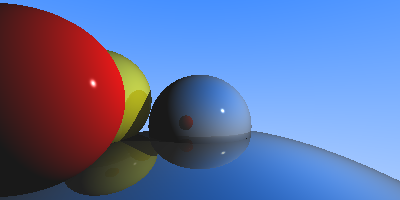
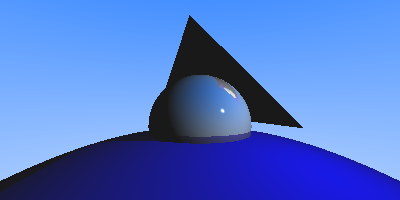
Added support for drawing triangles and translating them.

diff --git a/classes.py b/classes.py
@@ -46,7 +46,7 @@ class Renderer():
             return helpers.color(ray)
 
         # check for hits and get hits with lowest ray parameter
-        hit_result = ray.get_intersection(self.scene.scene_objects)
+        hit_result = self.get_intersection(self.scene.scene_objects, ray)
 
         # if there was a hit draw it, else draw background
         if hit_result:
@@ -65,7 +65,7 @@ class Renderer():
             # hard shadows
             if self.hard_shadows:
                 if self.get_hard_shadow(new_ray_origin, light):
-                    col /= 5
+                    col *= 0.2
             
             # lambert shading
             diffuse = 0
@@ -101,7 +101,7 @@ class Renderer():
     def get_hard_shadow(self, shadow_origin, light):
         shadow_direction = (light.position - shadow_origin).get_unit()
         shadow_ray = Ray(shadow_origin, shadow_direction)
-        shadow_result = shadow_ray.get_intersection(self.scene.scene_objects, any_hit=True)
+        shadow_result = self.get_intersection(self.scene.scene_objects, shadow_ray, any_hit=True)
 
         if shadow_result:
             return Vec3(0,0,0)
@@ -113,6 +113,27 @@ class Renderer():
 
     def get_lambert_shading(self, normal, light_ray, albedo):
         return albedo * max(0, normal.dot(light_ray.get_unit()))
+
+    def get_intersection(self, scene_objects, ray, any_hit=False):
+        # find the hit object with the smallest parameter
+        min_t = np.inf
+        min_object = None
+        for scene_object in scene_objects:
+            t = scene_object.get_hit(ray)
+
+            # there is a hit and its the new closest hit
+            if t and t < min_t:
+                min_t = t
+                min_object = scene_object
+
+                # stop early when any object is hit
+                if any_hit:
+                    break
+        
+        if min_object:
+            return min_t, min_object
+        else:
+            return None
 
 
 class Camera():
@@ -133,59 +154,6 @@ class Ray():
     
     def get_point(self, t):
         return self.origin + self.direction * t
-
-    def get_intersection(self, scene_objects, any_hit=False):
-        # find the hit object with the smallest parameter
-        min_t = np.inf
-        min_object = None
-        for scene_object in scene_objects:
-            t = self.hit_sphere(scene_object)
-
-            # there is a hit and its the new closest hit
-            if t and t < min_t:
-                min_t = t
-                min_object = scene_object
-
-                # stop early when any object is hit
-                if any_hit:
-                    break
-        
-        if min_object:
-            return min_t, min_object
-        else:
-            return None
-
-    def hit_sphere(self, sphere, t_min=0, t_max=50):
-        # notes:
-        # a = ray.direction dot ray.direction, since directions are unit vectors
-        # a is always 1
-
-        oc = self.origin - sphere.center
-        a = 1
-        b = 2 * oc.dot(self.direction)
-        c = oc.dot(oc) - sphere.radius * sphere.radius
-        discriminant = b * b - 4 * a * c
-
-        if discriminant > 0:
-            sqrt_discriminant = math.sqrt(discriminant)
-
-            t0 = (-b - sqrt_discriminant) / 2
-            t1 = (-b + sqrt_discriminant) / 2
-            
-            # make sure t0 is the lower t
-            t0, t1 = min(t0, t1), max(t0, t1)
-
-            # don't draw stuff behind the origin
-            if t1 >= 0:
-                if t0 < 0:
-                    # origin is within the sphere
-                    return t1 if t1 > t_min or t1 < t_max else None
-                else:
-                    # either single hit or hit with lowest t
-                    return t0 if t0 > t_min or t0 < t_max else None
-
-        # no hit
-        return None
 
     def __str__(self):
         return f"o: {self.origin}, d: {self.direction}"
@@ -227,6 +195,11 @@ class Vec3():
 
         return Vec3(x,y,z)
 
+    def crossproduct(self, other):
+        x = self.y * other.z - self.z * other.y
+        y = self.z * other.x - self.x  * other.z
+        z = self.x * other.y - self.y * other.x
+        return Vec3(x,y,z)
 
     def __add__(self, other):
         return Vec3(self.x + other.x, self.y + other.y, self.z + other.z)
@@ -270,8 +243,127 @@ class Sphere():
         normal = (point - self.center).get_unit()
         return normal
 
+    def get_hit(self, ray, t_min=0, t_max=50):
+        # notes:
+        # a = ray.direction dot ray.direction, since directions are unit vectors
+        # a is always 1
+
+        oc = ray.origin - self.center
+        a = 1
+        b = 2 * oc.dot(ray.direction)
+        c = oc.dot(oc) - self.radius * self.radius
+        discriminant = b * b - 4 * a * c
+
+        if discriminant > 0:
+            sqrt_discriminant = math.sqrt(discriminant)
+
+            t0 = (-b - sqrt_discriminant) / 2
+            t1 = (-b + sqrt_discriminant) / 2
+            
+            # make sure t0 is the lower t
+            t0, t1 = min(t0, t1), max(t0, t1)
+
+            # don't draw stuff behind the origin
+            if t1 >= 0:
+                if t0 < 0:
+                    # origin is within the sphere
+                    return t1 if t1 > t_min or t1 < t_max else None
+                else:
+                    # either single hit or hit with lowest t
+                    return t0 if t0 > t_min or t0 < t_max else None
+
+        # no hit
+        return None
+
     def __str__(self):
         return f"sphere with color: {self.color_vector.get_rgb()}"
+
+class Triangle():
+    def __init__(self, v0, v1, v2, color_vector=Vec3(1,0,0), mat=Material()):
+        self.v0 = v0
+        self.v1 = v1
+        self.v2 = v2
+        self.color_vector = color_vector
+        self.mat = mat
+        self.normal = self.calculate_normal()
+
+    def calculate_normal(self):
+        a = self.v1 - self.v0
+        b = self.v2 - self.v0
+        N = a.crossproduct(b)
+        return N
+
+    def get_normal(self, _):
+        return self.normal
+
+    def get_hit(self, ray):
+        # source: https://www.scratchapixel.com/lessons/3d-basic-rendering/ray-tracing-rendering-a-triangle/ray-triangle-intersection-geometric-solution
+        ### get normal ###
+        N = self.normal
+
+        ### check intersection with plane ###
+        NdotDir = N.dot(ray.direction)
+
+        if abs(NdotDir) < 0.001:
+            # plane is parallel to ray, not intersection
+            return None
+
+        D = N.dot(self.v0)
+        t = (N.dot(ray.origin) + D) / NdotDir
+        
+        if t < 0:
+            # ray is behind camera
+            return None
+
+        P = ray.origin + ray.direction * t
+
+        ### check if p is in triangle using inside out test ###
+        # edge 0
+        edge0 = self.v1 - self.v0
+        C = edge0.crossproduct(P - self.v0)
+        if N.dot(C) < 0:
+            # P is on the right side of the edge, so outside of the triangle
+            return None
+
+        # edge 1
+        edge1 = self.v2 - self.v1
+        C = edge1.crossproduct(P - self.v1)
+        if N.dot(C) < 0:
+            # P is on the right side of the edge, so outside of the triangle
+            return None
+
+        # edge 2
+        edge2 = self.v0 - self.v2
+        C = edge2.crossproduct(P - self.v2)
+        if N.dot(C) < 0:
+            # P is on the right side of the edge, so outside of the triangle
+            return None
+
+        return t
+    
+    def translate_x(self, dist):
+        self.v0.x += dist
+        self.v1.x += dist
+        self.v2.x += dist
+    
+    def translate_y(self, dist):
+        self.v0.y += dist
+        self.v1.y += dist
+        self.v2.y += dist
+
+    def translate_z(self, dist):
+        self.v0.z += dist
+        self.v1.z += dist
+        self.v2.z += dist
+
+    def translate(self, x_dist=0, y_dist=0, z_dist=0):
+        self.translate_x(x_dist)
+        self.translate_y(y_dist)
+        self.translate_z(z_dist)
+
+    def __str__(self):
+        return f"triangle with vertices: {self.v0}, {self.v1} and {self.v2}"
+
 
 class Plane():
     def __init__(self, center, normal):

diff --git a/rt.py b/rt.py
@@ -10,26 +10,31 @@ def main():
     total_start = time.time()
 
     # set resolution and create pixel array
-    for i, angle in enumerate(np.linspace(0,math.pi*4, 24)):
+    for i, angle in enumerate(np.linspace(0,math.pi*4, 1)):
+    # for i, place in enumerate(np.linspace(0,-3, 12)):
         start_time = time.time()
 
-        red_x = math.cos(angle)
-        red_z = math.sin(angle) - 1.5
+        # red_x = math.cos(angle)
+        # red_z = math.sin(angle) - 1.5
 
         # create a scene
         scene = Scene()
         scene.add_light(Light(Vec3(1,.5,-1)))
-        scene.add_scene_object(Sphere(Vec3(0,-4.3,-2), 4, mat=Material(reflect=1))) # blue sphere
-        scene.add_scene_object(Sphere(Vec3(0,-.25,-2), 0.5, Vec3(1,1,1), Material(reflect=0.8, Ks=1))) # white sphere
-        scene.add_scene_object(Sphere(Vec3(-1,0,-2), 0.5, Vec3(1,1,0), Material(reflect=0.25))) # yellow sphere
-        scene.add_scene_object(Sphere(Vec3(red_x,0,red_z), 0.3, Vec3(1,0,0), Material(Ks=1, n=500))) # red sphere
+        # scene.add_scene_object(Sphere(Vec3(0,-4.3,-2), 4, mat=Material(reflect=0))) # blue sphere
+        red_triangle = Triangle(Vec3(-1,0,-2), Vec3(1,0,-2), Vec3(0,1,-2))
+        blue_triangle = Triangle(Vec3(-1,0,-2), Vec3(1,0,-2), Vec3(0,-1,-2), color_vector=Vec3(0,0,1))
+        scene.add_scene_object(red_triangle)
+        scene.add_scene_object(blue_triangle)
+        # scene.add_scene_object(Sphere(Vec3(0,-.25,-2), 0.5, Vec3(1,1,1), Material(reflect=0.8, Ks=1))) # white sphere
+        # scene.add_scene_object(Sphere(Vec3(-1,0,-2), 0.5, Vec3(1,1,0), Material(reflect=0.25))) # yellow sphere
+        # scene.add_scene_object(Sphere(Vec3(red_x,0,red_z), 0.3, Vec3(1,0,0), Material(Ks=1, n=500))) # red sphere
 
         camera = Camera(400, 200)
         settings = {
-            "hard_shadows" : True,
-            "reflection" : True,
-            "lambert" : False,
-            "phong" : True
+            "hard_shadows" : False,
+            "reflection" : False,
+            "lambert" : True,
+            "phong" : False
         }
         R = Renderer(camera, scene, settings)
 
